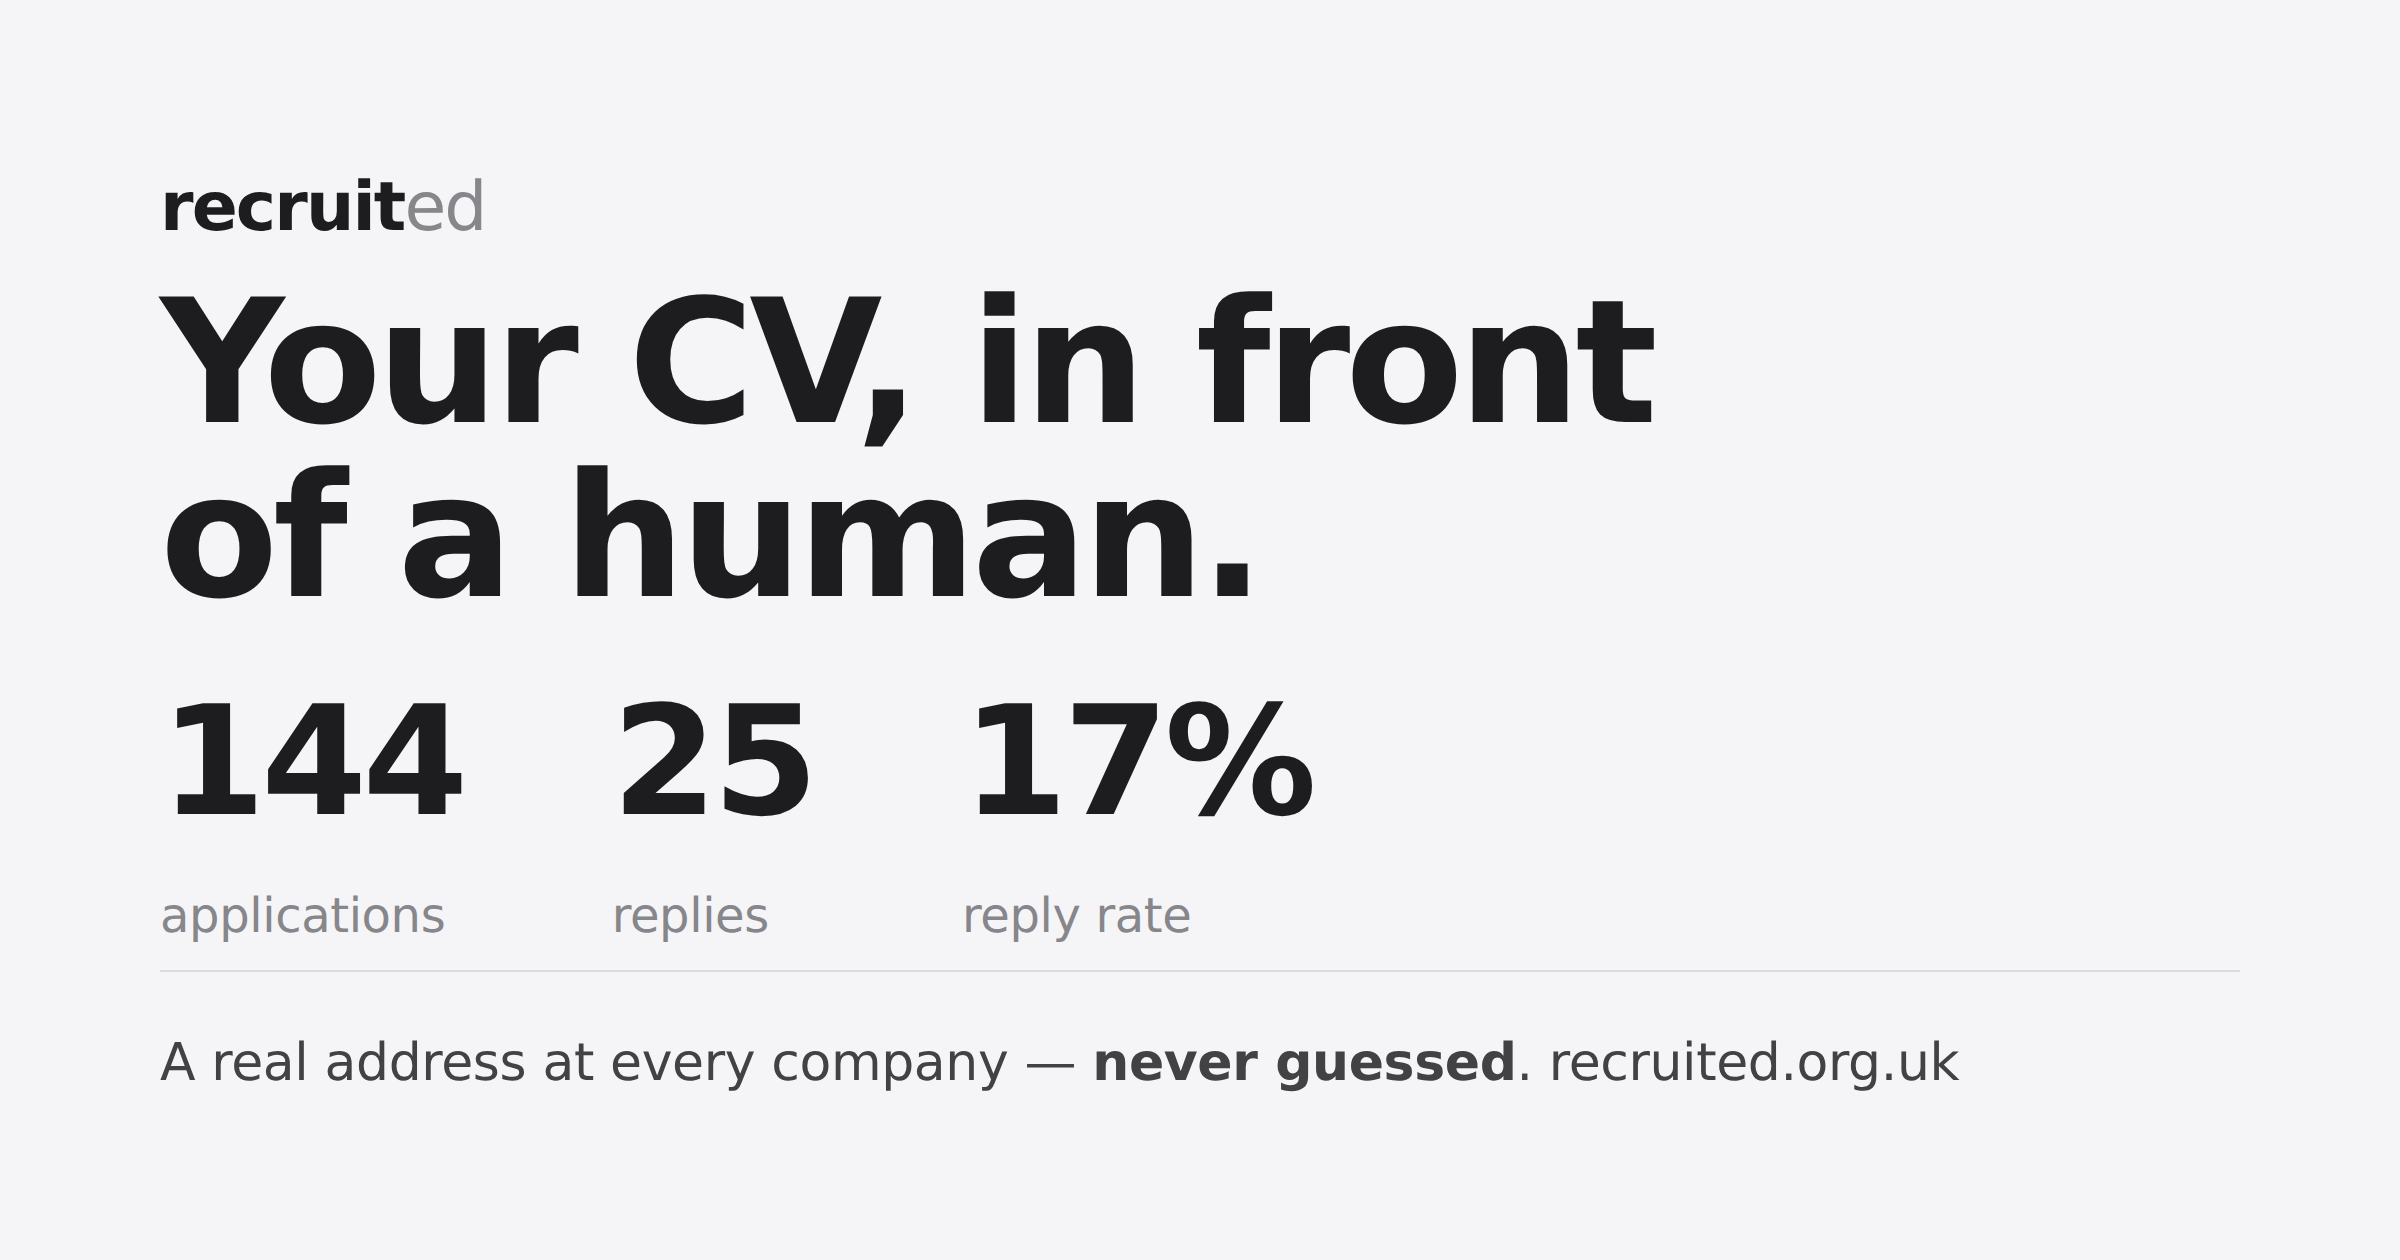
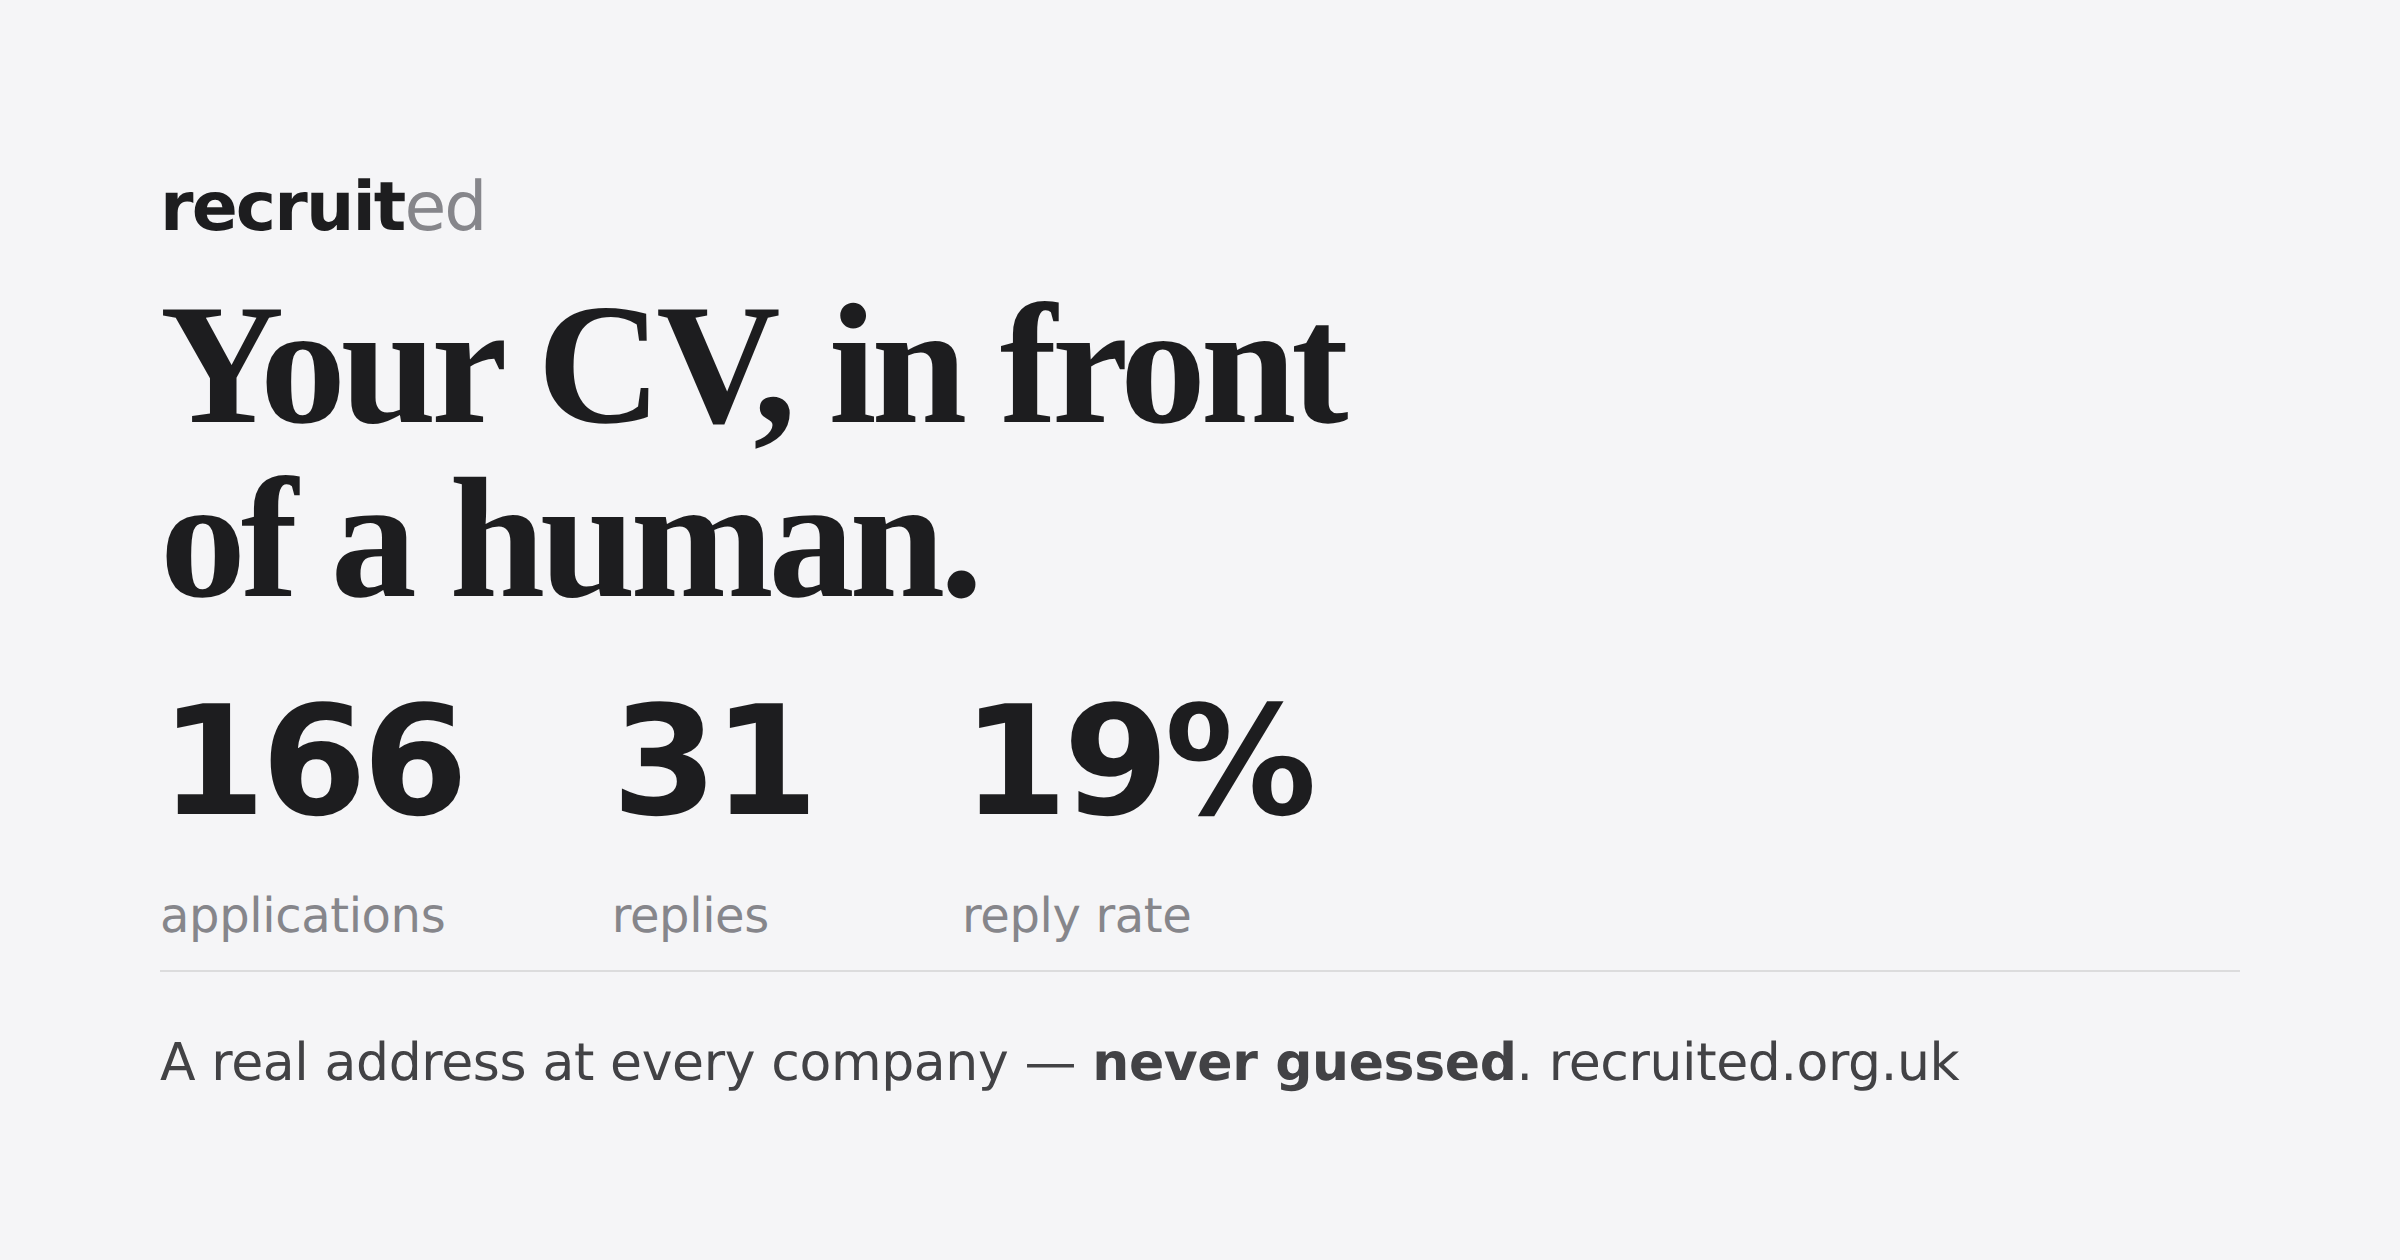
Draw the pictures, because the links keep getting removed
Two things, one urgent.

**The shared card was wrong again.** Every share of this site - WhatsApp,
Facebook, Reddit, a TikTok bio - showed a preview saying 144 applications
and 17% while the site said 166 and 19%. Anyone who compared the two
would conclude the numbers are decorative, and the numbers are the whole
argument. Redrawn from data/track_record.json, which is what the tool
exists to make possible; --check now agrees with the site.

**Every channel left punishes links and rewards pictures.** Reddit
removes link posts from accounts under a karma threshold, silently,
which is almost certainly what has been happening there. Instagram and
TikTok have no clickable link in a post at all. Facebook groups show a
native image and bury a post whose point is an external URL. WhatsApp
forwards a picture far more readily than a link, because a link asks
somebody to trust a stranger's domain and a picture is just readable.

So make_share_cards.py draws the finding rather than the address:

  who-you-email         the tier table, the one worth passing on
  scroll-to-the-bottom  one thing to do, no product in it at all
  reads-as-generated    the banned list
  the-numbers           the live record

Three shapes each - 1080x1350 for a phone feed, 1080x1920 for a story,
1200x630 for a link preview - at 2x, from the site's own stylesheet, so
a card cannot drift away from the thing it advertises.

The rule specific to these: a rate never travels without its sample.
[…]

diff --git a/product/tools/make_share_cards.py b/product/tools/make_share_cards.py
@@ -1,0 +1,293 @@
+"""Draw the pictures that get posted where a link cannot go.
+
+WHY IMAGES AND NOT LINKS.
+
+Every channel left to this product punishes links and rewards pictures:
+
+  - **Reddit** removes link posts from accounts under a karma or age
+    threshold, silently and automatically. That is almost certainly what has
+    been happening to the posts there. An image post from the same account
+    goes up untouched.
+  - **Instagram and TikTok** have no clickable link in a post at all. A
+    picture is the only thing that can carry an idea.
+  - **Facebook groups** show a native image in the feed and quietly bury a
+    post whose point is an external URL.
+  - **WhatsApp**, which is where a UK jobseeker actually hears about things,
+    forwards a picture far more readily than a link. A link asks somebody to
+    trust a stranger's domain; a picture is just readable.
+
+So the thing to spread is not the address of the site. It is the finding,
+drawn so it can be read without going anywhere, with the address small at the
+bottom for the people the finding convinces.
+
+Three rules, two inherited from make_og_card and one that is specific:
+
+  - **Numbers come from the file the site reads**, never typed in here.
+    Everything on these cards has to survive somebody checking it against
+    /numbers, because that checkability is the whole argument.
+  - **Design comes from the site's own stylesheet.** Real HTML, screenshotted.
+    A card cannot drift away from the thing it advertises.
+  - **A rate never travels without its sample.** These are made to be passed
+    around with nobody to ask, so "67%" alone would be a worse claim than no
+    claim. Every rate on every card carries the count it came from.
+
+    python -m tools.make_share_cards               # draw the lot
+    python -m tools.make_share_cards --list        # names and sizes only
+"""
+
+from __future__ import annotations
+
+import argparse
+import os
+import sys
+
+HERE = os.path.dirname(os.path.abspath(__file__))
+PRODUCT = os.path.dirname(HERE)
+sys.path.insert(0, PRODUCT)
+
+from app import track_record  # noqa: E402
+
+OUT = os.path.join(PRODUCT, "share")
+STYLE = os.path.join(PRODUCT, "app", "static", "style.css")
+
+# Three shapes, because one image posted everywhere fits nowhere. Portrait is
+# the feed on a phone, story is full screen, wide is a link preview and the
+# only one Reddit's old layout shows properly.
+SHAPES = {
+    "portrait": (1080, 1350),
+    "story": (1080, 1920),
+    "wide": (1200, 630),
+}
+SCALE = 2
+
+# The figures behind the tier table are fixed history: 86 cold emails over
+# four weeks, which is the sample PLAYBOOK.md reports and the only one these
+# percentages are true of. They do NOT move with track_record.json, which
+# counts a different and larger thing, so they are written here with their
+# counts beside them rather than read from a file that would silently change
+# what the percentages mean.
+TIERS = [
+    ("Printed in the advert", 9, 6, 67),
+    ("A hiring inbox", 10, 5, 50),
+    ("A named person", 34, 13, 38),
+    ("A generic info@", 42, 4, 10),
+]
+
+FRAME = """
+<style>{css}</style>
+<style>
+  html, body {{ margin: 0; padding: 0; background: var(--bg); }}
+  /* Content flows from the top with an even gap and the footer is pinned to
+     the bottom, rather than space-between spreading everything apart. On a
+     1080x1920 story space-between opens a third of the screen as a hole in
+     the middle, and that hole is the part a thumb stops on. */
+  .card {{
+    width: {width}px; height: {height}px;
+    box-sizing: border-box;
+    padding: {pad}px;
+    display: flex; flex-direction: column;
+    gap: {gap}px;
+    background: var(--bg); color: var(--ink);
+  }}
+  .card .foot {{ margin-top: auto; }}
+  .card .brand {{ font-size: {brand}px; }}
+  .card h1 {{
+    font-size: {h1}px; line-height: 1.04; margin: 0;
+    letter-spacing: -0.03em;
+  }}
+  .card p {{ font-size: {body}px; line-height: 1.4; margin: 0; }}
+  .card .muted {{ color: var(--muted); }}
+  .foot {{
+    border-top: 1px solid var(--line);
+    padding-top: {pad_half}px; font-size: {foot}px; color: var(--ink-2);
+  }}
+  table {{ width: 100%; border-collapse: collapse; }}
+  td {{
+    padding: {row}px 0; font-size: {body}px;
+    border-bottom: 1px solid var(--line);
+  }}
+  td.n {{ text-align: right; font-size: {big}px; letter-spacing: -0.03em;
+          font-weight: 600; white-space: nowrap; }}
+  td.s {{ text-align: right; font-size: {foot}px; color: var(--muted);
+          white-space: nowrap; padding-left: {pad_half}px; }}
+  tr:last-child td {{ border-bottom: 0; }}
+  .lede {{ font-size: {lede}px; line-height: 1.3; margin: 0; }}
+  .words {{ font-size: {body}px; line-height: 1.65; color: var(--ink); }}
+  .words b {{ font-weight: 600; }}
+</style>
+<div class="card">
+  <div class="brand">recruit<span style="color:var(--muted);font-weight:400">ed</span></div>
+  {middle}
+  <div class="foot">{foot_text}</div>
+</div>
+"""
+
+
+def tier_rows() -> str:
+    out = []
+    for label, sent, replied, rate in TIERS:
+        out.append(
+            f"<tr><td>{label}</td>"
+            f"<td class='s'>{replied} of {sent}</td>"
+            f"<td class='n'>{rate}%</td></tr>")
+    return "".join(out)
+
+
+def cards(record: dict | None) -> dict:
+    """Every card, as a block of HTML to drop into the frame.
+
+    `record` is the live published figures, or None when there are none. A
+    card that would need them and cannot have them is simply not drawn, the
+    same rule the site follows: no claim beats a blank where a number goes.
+    """
+    made = {}
+
+    # 1. The finding. This is the one worth passing on, because it is
+    #    surprising, it is checkable, and somebody can act on it today
+    #    without visiting anything.
+    made["who-you-email"] = dict(
+        middle=(
+            "<div>"
+            "<h1>Who you email decides everything</h1>"
+            "<p class='muted' style='margin-top:18px'>Same CV. Same person. "
+            "Same four weeks. 86 cold emails to UK employers, and the only "
+            "thing that changed was who received it.</p>"
+            "</div>"
+            f"<table>{tier_rows()}</table>"),
+        foot=("Almost nobody writes to the address printed in the advert, "
+              "because almost everybody clicks Apply. &nbsp;recruited.org.uk"))
+
+    # 2. One thing to do, no product in it at all. The most forwardable.
+    made["scroll-to-the-bottom"] = dict(
+        middle=(
+            "<div>"
+            "<h1>Scroll to the bottom of the job advert</h1>"
+            "<p class='lede' style='margin-top:26px'>Past the salary. Past "
+            "the benefits. Past the equal opportunities paragraph.</p>"
+            "<p class='lede' style='margin-top:22px'>A lot of adverts print a "
+            "real email address down there.</p>"
+            "</div>"
+            "<div>"
+            "<p class='lede'><b>6 of the 9 I sent to one got a reply.</b></p>"
+            "<p class='muted' style='margin-top:16px'>Nine is a small sample "
+            "and it will not hold at scale. It was still the best of any "
+            "source, and almost nobody uses it.</p>"
+            "</div>"),
+        foot="Free write-up, no account: recruited.org.uk/playbook")
+
+    # 3. The banned list. Useful to a jobseeker, useful to somebody hiring,
+    #    and an argument people enjoy having - which is what gets shared.
+    made["reads-as-generated"] = dict(
+        middle=(
+            "<div>"
+            "<h1>What makes a job application read as AI</h1>"
+            "<p class='muted' style='margin-top:18px'>Employers get dozens a "
+            "week now. These are the tells.</p>"
+            "</div>"
+            "<p class='words'>I hope this email finds you well &middot; "
+            "passionate &middot; leverage &middot; delve &middot; seamless "
+            "&middot; synergy &middot; dynamic &middot; thrilled &middot; "
+            "excited to apply &middot; perfect fit &middot; hit the ground "
+            "running &middot; fast-paced environment &middot; proven track "
+            "record &middot; results-driven &middot; detail-oriented &middot; "
+            "team player &middot; I am writing to &middot; utilize &middot; "
+            "spearheaded &middot; esteemed &middot; keen to &middot; "
+            "furthermore &middot; moreover</p>"
+            "<p><b>Also: exclamation marks, em dashes, and any markdown.</b></p>"),
+        foot=("Asking a model to avoid them does not work. It complies for two "
+              "paragraphs and drifts back. &nbsp;recruited.org.uk/answers"))
+
+    # 4. The live record. Needs the published figures, so it is conditional.
+    if record:
+        made["the-numbers"] = dict(
+            middle=(
+                "<div>"
+                "<h1>Applying online mostly does not work</h1>"
+                "<p class='muted' style='margin-top:18px'>So I stopped, and "
+                "emailed the person hiring instead. Every figure below is "
+                "public and updates itself.</p>"
+                "</div>"
+                "<table>"
+                f"<tr><td>Applications</td><td class='n'>{record['applications']}</td></tr>"
+                f"<tr><td>Employers</td><td class='n'>{record['employers']}</td></tr>"
+                f"<tr><td>Replies</td><td class='n'>{record['replies']}</td></tr>"
+                f"<tr><td>Reply rate</td><td class='n'>{record['reply_rate']}%</td></tr>"
+                "</table>"),
+            foot=("Cold email normally runs 1-5%. A reply is not an interview. "
+                  "&nbsp;recruited.org.uk/numbers"))
+    return made
+
+
+def sizes(width: int, height: int) -> dict:
+    """Type scale for one shape.
+
+    Derived from the width rather than written per shape, so a new size is one
+    line in SHAPES instead of a fresh set of numbers to get subtly wrong.
+    """
+    k = width / 1080
+    tall = height / width > 1.3
+    return dict(
+        pad=int(80 * k), pad_half=int(40 * k),
+        # The gap carries the height difference. A story is 570px taller than
+        # a portrait card with the same words in it, and that has to go
+        # somewhere deliberate rather than into one hole in the middle.
+        gap=int((64 if tall else 40) * k),
+        brand=int(34 * k), h1=int((86 if tall else 68) * k),
+        body=int(32 * k), lede=int(40 * k), big=int(60 * k),
+        foot=int(25 * k), row=int(22 * k))
+
+
+def draw(name: str, block: dict, shape: str, out_dir: str = OUT) -> str:
+    from playwright.sync_api import sync_playwright
+
+    width, height = SHAPES[shape]
+    with open(STYLE) as f:
+        css = f.read()
+    html = FRAME.format(css=css, width=width, height=height,
+                        middle=block["middle"], foot_text=block["foot"],
+                        **sizes(width, height))
+
+    os.makedirs(out_dir, exist_ok=True)
+    path = os.path.join(out_dir, f"{name}-{shape}.png")
+    with sync_playwright() as p:
+        browser = p.chromium.launch(
+            executable_path=os.environ.get("CHROMIUM",
+                                           "/opt/pw-browsers/chromium"),
+            args=["--no-sandbox"])
+        page = browser.new_context(viewport={"width": width, "height": height},
+                                   device_scale_factor=SCALE).new_page()
+        page.set_content(html, wait_until="load")
+        page.screenshot(path=path,
+                        clip={"x": 0, "y": 0, "width": width, "height": height})
+        browser.close()
+    return path
+
+
+def main(argv=None) -> int:
+    ap = argparse.ArgumentParser(description=__doc__)
+    ap.add_argument("--list", action="store_true",
+                    help="print what would be drawn, draw nothing")
+    ap.add_argument("--shape", choices=sorted(SHAPES),
+                    help="only this shape (default: all three)")
+    ap.add_argument("--out", default=OUT)
+    args = ap.parse_args(argv)
+
+    track_record._cache = None
+    made = cards(track_record.read())
+    shapes = [args.shape] if args.shape else sorted(SHAPES)
+
+    if args.list:
+        for name in made:
+            for shape in shapes:
+                w, h = SHAPES[shape]
+                print(f"{name}-{shape}.png  {w}x{h} at {SCALE}x")
+        return 0
+
+    for name, block in made.items():
+        for shape in shapes:
+            print("drew", draw(name, block, shape, args.out))
+    return 0
+
+
+if __name__ == "__main__":
+    raise SystemExit(main())
